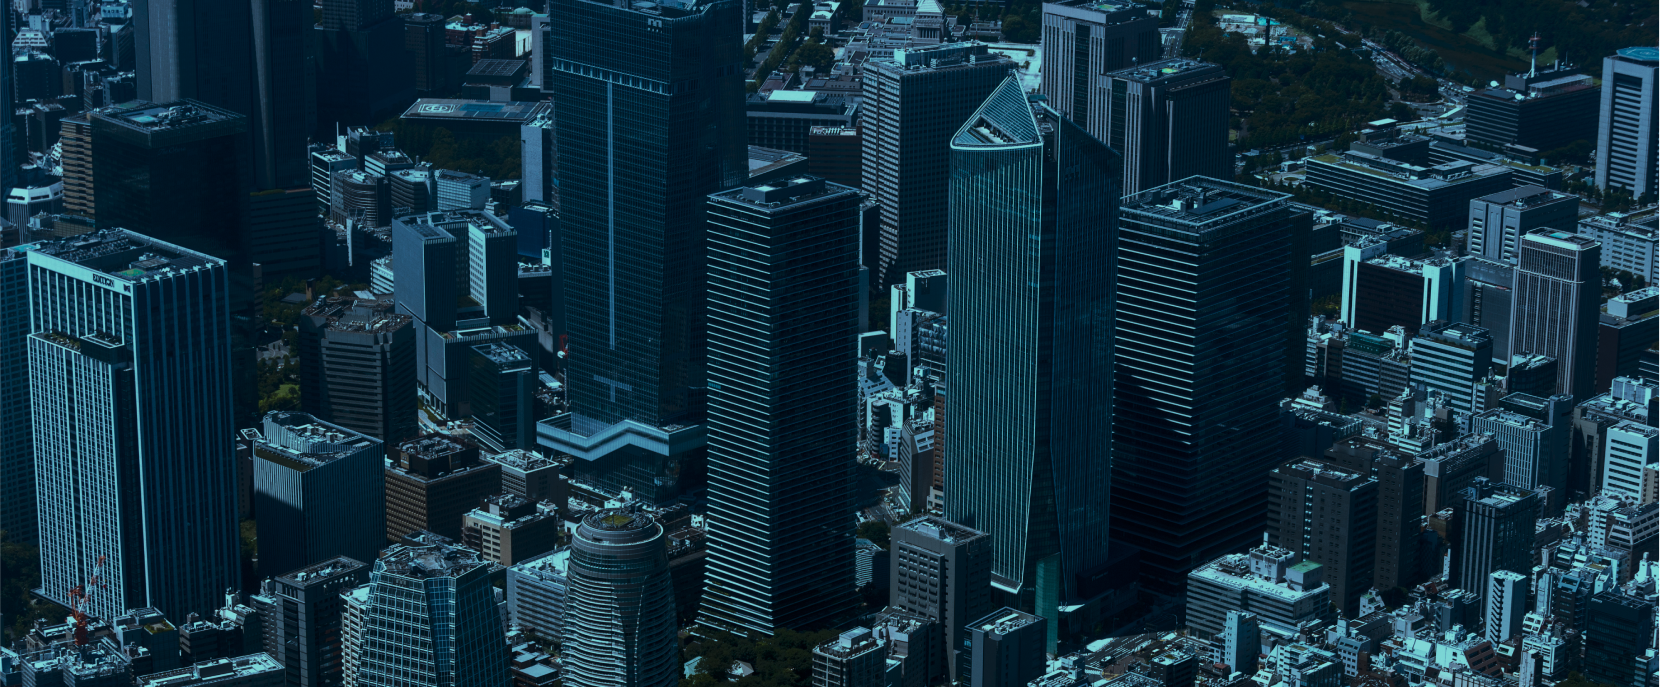
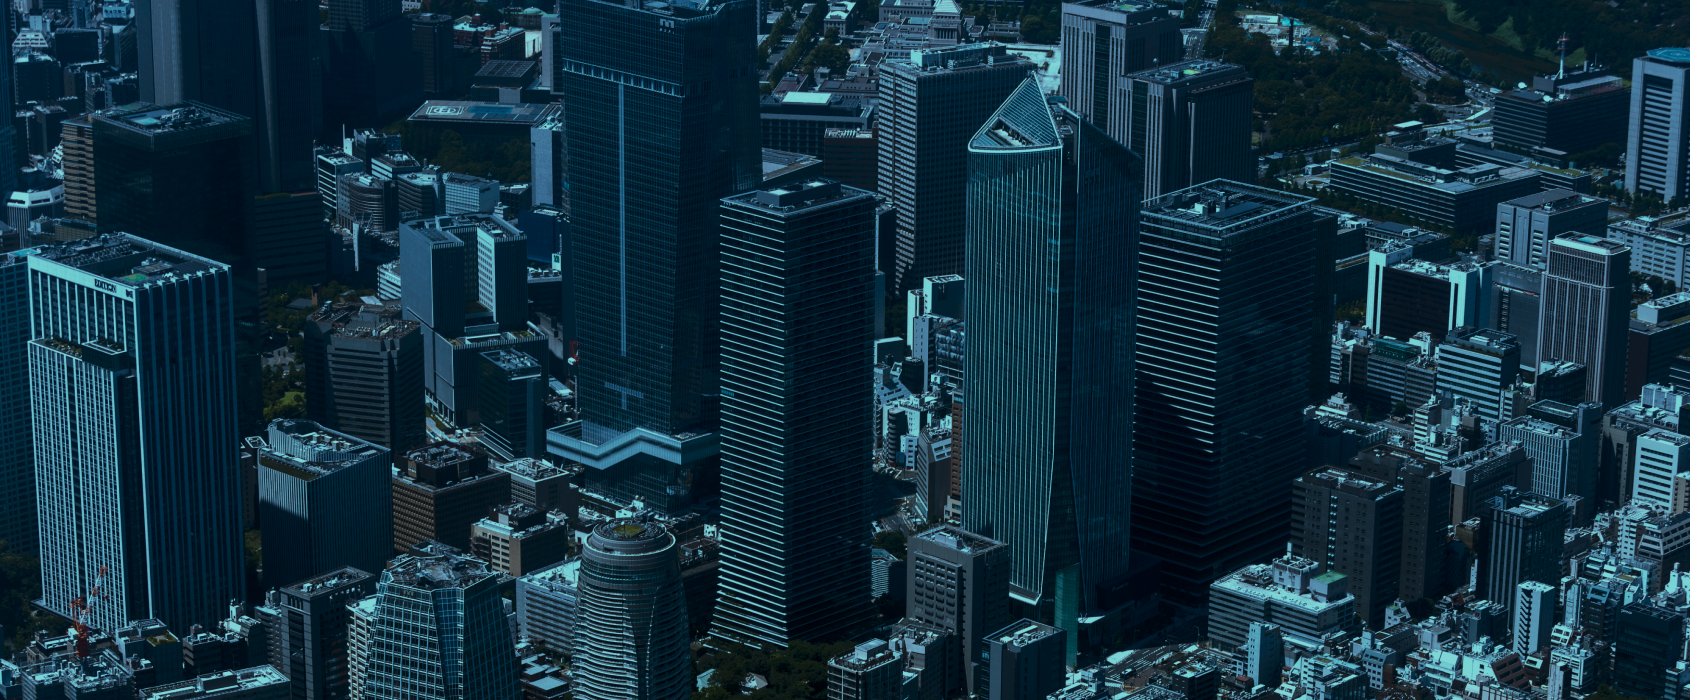
画像縦横比

diff --git a/css/style.css b/css/style.css
@@ -88,8 +88,7 @@ header {
     background-repeat: no-repeat;
     display: flex;
     background-color: black;
-    height: 80vh;
-    max-height: 633px;
+    max-height: 700px;
     border-radius: 0px 0px 0px 100px;
     max-width: 150%;
   }
@@ -262,7 +261,7 @@ h4 {
   display: flex;
   flex-flow: wrap;
   width: auto;
-  padding-top: 160px;
+  padding-top: 240px;
   padding-bottom: 240px;
   justify-content: center;
   align-items: center;
